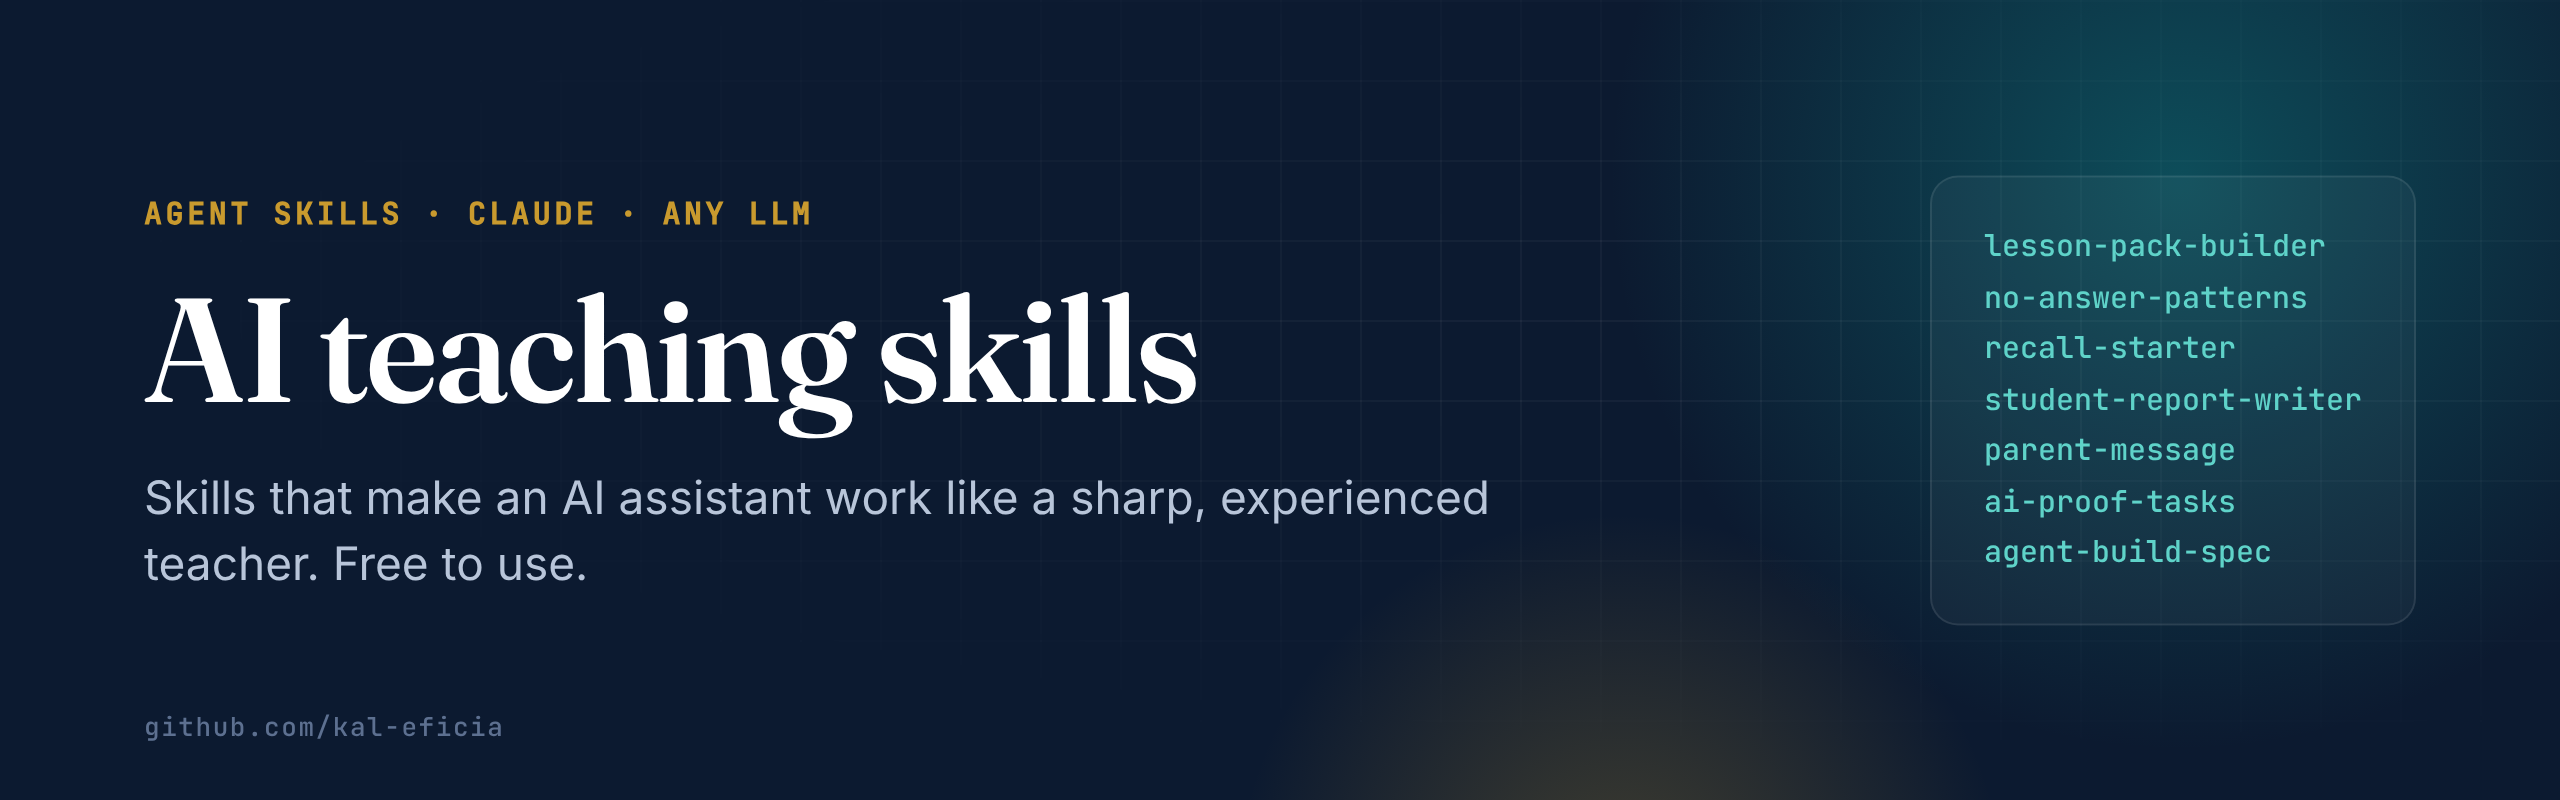
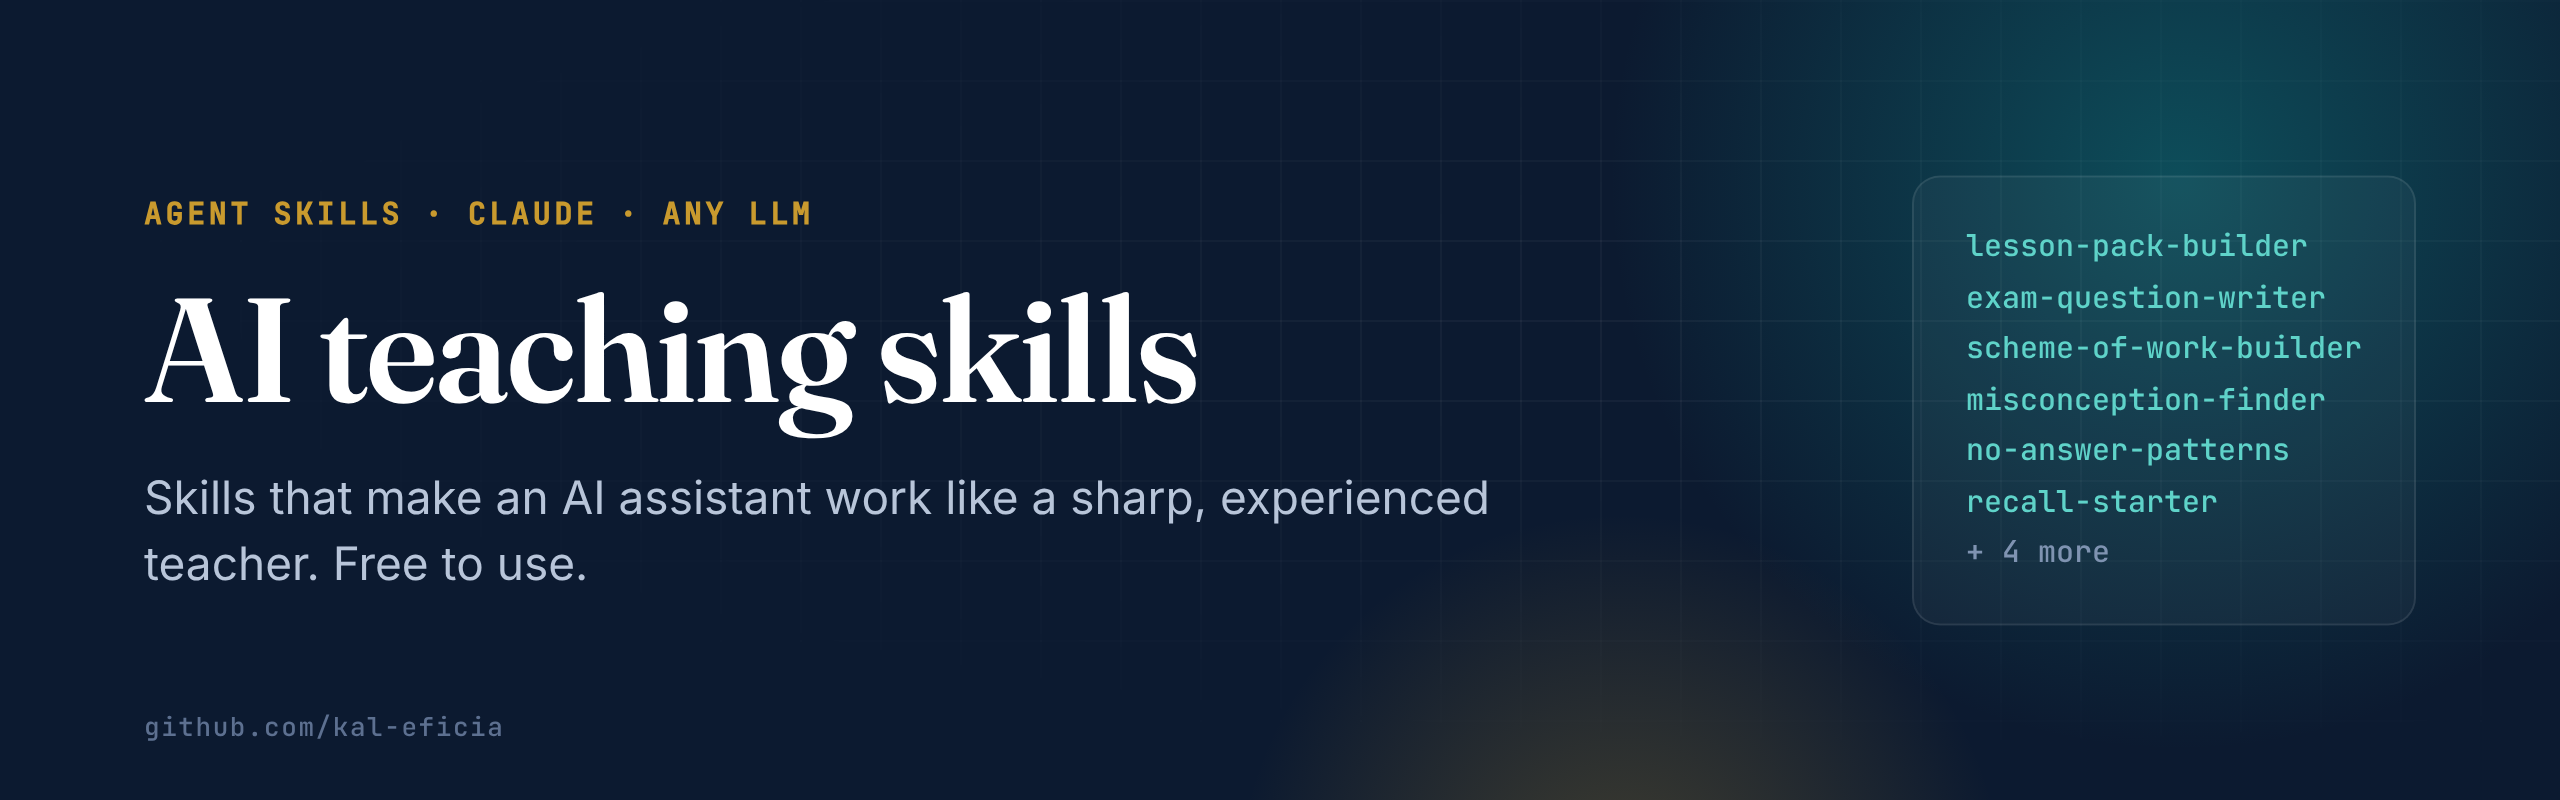
Add exam questions, schemes of work, misconceptions and parents evening skills

Changed region(s): [[0.75, 0.2812, 0.9375, 0.7188]]

diff --git a/skills/exam-question-writer/SKILL.md b/skills/exam-question-writer/SKILL.md
@@ -1,0 +1,55 @@
+---
+name: exam-question-writer
+description: Write original exam-style questions with mark schemes that match a named exam board's command words, mark allocations and assessment objectives (Cambridge IGCSE, GCSE AQA/Edexcel/OCR, A level and others). Use when a teacher asks for exam questions, past-paper style practice, a mock paper, a mark scheme, or "questions like the real exam".
+---
+
+# Exam Question Writer
+
+Students lose marks on questions they understand because they misread what the command word asks for. Practice questions only help if they behave like the real paper.
+
+## Step 1: Pin the target
+
+Confirm: board and specification code, topic (spec reference if possible), tier or paper, and how many questions or marks. If the teacher has past papers, read two or three first and match their style, layout and difficulty curve. Never copy a real past-paper question: write original ones in the same mould.
+
+## Step 2: Use the command words properly
+
+Each command word sets the depth of the answer and the marks. Defaults (check the board's own glossary when you can):
+
+| Command word | Student must | Typical marks |
+|---|---|---|
+| State / Give / Identify / Name | Recall a fact, no explanation | 1 per point |
+| Define | Give the precise meaning | 1-2 |
+| Describe | Say what happens or what something is like, in steps or features | 2-4 |
+| Explain | Give reasons: what happens **and why**, linked with "because / so / therefore" | 2-6 |
+| Compare | Similarities and/or differences, both sides referred to in each point | 2-4 |
+| Calculate | Work out with working shown | 1-4 |
+| Evaluate / Discuss / Justify | Weigh points for and against and reach a supported judgement | 4-8 |
+
+Marks must match demand: a 4-mark "explain" needs four creditable, linked points to exist.
+
+## Step 3: Write each question
+
+- Start with a short context when the board does (a school network, a shop's database, a patient's symptoms).
+- One command word per part. Split multi-part questions into (a), (b), (c) of rising difficulty.
+- Put the marks in brackets at the end of each part: **[3]**.
+- Plain, unambiguous language. No trick wording. No double negatives.
+- For multiple choice: real misconceptions as distractors, and no answer patterns across the set (see `no-answer-patterns`).
+
+## Step 4: Write the mark scheme
+
+For each part:
+- **Marking points**, one per mark, written as an examiner would ("Data is lost when power is removed (1)").
+- **Accept**: other wording that earns the same mark.
+- **Do not accept**: common answers that look close but don't earn the mark, with the reason.
+- For levels-marked questions: level descriptors and an indicative content list.
+- A model answer at full marks.
+
+Write the marking points so they could feed [mark-point-checker](https://github.com/kal-eficia/mark-point-checker) directly if the teacher wants automatic feedback.
+
+## Step 5: Check
+
+- [ ] Every command word matches its marks and its mark scheme
+- [ ] Each mark is independently creditable
+- [ ] Nothing outside the named specification
+- [ ] Difficulty rises through the paper
+- [ ] No answer patterns in MCQs

diff --git a/README.md b/README.md
@@ -1,7 +1,7 @@
 <p align="center"><img src=".github/banner.png" alt="AI teaching skills" width="100%"></p>
 
 <p align="center">
-  <img src="https://img.shields.io/badge/skills-7-0f8b8d?style=flat-square" alt="7 skills">
+  <img src="https://img.shields.io/badge/skills-10-0f8b8d?style=flat-square" alt="10 skills">
   <img src="https://img.shields.io/badge/works%20with-Claude%20%C2%B7%20any%20agent-0c1a30?style=flat-square" alt="Works with Claude and other agents">
   <img src="https://img.shields.io/badge/licence-MIT-c99a2e?style=flat-square" alt="MIT">
 </p>
@@ -20,7 +20,10 @@ These skills fix that. Each one is a short, opinionated playbook, written by a w
 | [**student-report-writer**](skills/student-report-writer/SKILL.md) | Reports that are honest, specific and kind, with different wording for every student |
 | [**parent-message**](skills/parent-message/SKILL.md) | Short, plain-language messages to parents with one clear call to action |
 | [**ai-proof-tasks**](skills/ai-proof-tasks/SKILL.md) | Redesigns homework and coursework so students still learn when AI is available |
-| [**agent-build-spec**](skills/agent-build-spec/SKILL.md) | Turns an app idea into phase-gated prompts for Replit Agent, Claude Code or Cursor, UI first, with a stop gate after every phase |
+| [**exam-question-writer**](skills/exam-question-writer/SKILL.md) | Original exam-style questions and mark schemes that use the board's command words and mark allocations properly |
+| [**scheme-of-work-builder**](skills/scheme-of-work-builder/SKILL.md) | A term or year of lessons, sequenced by dependency, with spaced retrieval, assessment points and a balance of creative and exam work |
+| [**misconception-finder**](skills/misconception-finder/SKILL.md) | Groups wrong answers by the idea behind them and plans the fix, confident-but-wrong first |
+| [**parent-evening-prep**](skills/parent-evening-prep/SKILL.md) | A phone-sized brief per student: one strength, one priority, one home action and who does it |
 
 ## Install
 
@@ -44,6 +47,8 @@ cp -r ai-teaching-skills/skills/* ~/.claude/skills/
 
 > Write end-of-term reports for these six students. Here are my notes on each. (paste notes)
 
+> Here are last week's quiz results. What are they confusing, and what should I reteach first?
+
 ## The principles behind them
 
 - **Recall first.** Lessons open with retrieval from memory, spaced and interleaved.
@@ -58,6 +63,8 @@ cp -r ai-teaching-skills/skills/* ~/.claude/skills/
 - [pattern-guard](https://github.com/kal-eficia/pattern-guard): the answer-pattern checker as a CLI and library
 - [recall-engine](https://github.com/kal-eficia/recall-engine): spaced-retrieval starters from a question bank and attempts log
 - [lesson-page-kit](https://github.com/kal-eficia/lesson-page-kit): the student-page engine the lesson-pack skill can write for
+- [mark-point-checker](https://github.com/kal-eficia/mark-point-checker): marks short answers against the mark schemes the exam-question skill writes
+- [ai-skills-kit](https://github.com/kal-eficia/ai-skills-kit): skills for AI adoption, creators and builders
 
 ## Contributing
 

diff --git a/skills/scheme-of-work-builder/SKILL.md b/skills/scheme-of-work-builder/SKILL.md
@@ -1,0 +1,46 @@
+---
+name: scheme-of-work-builder
+description: Plan a term or year of lessons as a scheme of work: sequenced lessons with objectives, spaced retrieval, assessment points, practical and creative tasks, and the resources each lesson needs. Use when a teacher asks for a scheme of work, a curriculum plan, a term plan, a long-term or medium-term plan, or "what should I teach and when".
+---
+
+# Scheme of Work Builder
+
+A scheme of work is a promise about what students will be able to do by a date. Good ones are sequenced so each lesson builds on the last, revisit earlier content before it fades, and leave room for the lessons that go wrong.
+
+## Inputs
+
+- Subject, specification (board and code) or national curriculum stage
+- Year group, number of classes, lesson length and lessons per week
+- Start and end dates, holidays, and any fixed assessment weeks
+- What students already know (last term's scheme or a baseline)
+- Teaching context: remote or in person, devices available, class sizes
+
+Ask only for what you can't infer. State assumptions at the top of the document.
+
+## Principles
+
+1. **Sequence by dependency.** Teach what later topics need first (binary before data representation, cells before organ systems). Draw the dependency chain before placing lessons.
+2. **Spaced retrieval is built in.** Every lesson opens with a starter that revisits content from 1, 3 and 6+ lessons ago. Name the topics each starter draws from.
+3. **Balance the week.** Mix exam-question lessons with creative or practical lessons (posters, debates, short presentations, builds). Not every lesson is creative; not every lesson is past-paper practice.
+4. **Assessment points are planned, not added.** A short check every 3 to 4 lessons, an end-of-unit assessment, and a six-week review against the baseline.
+5. **Slack is honest.** Leave one flex lesson in every six for catch-up, absences and the lesson that needs reteaching.
+6. **Tell families about practical needs in advance.** If a lesson needs materials or software at home, flag it a week ahead.
+
+## Output: one table per half-term
+
+| Wk | Lesson | Objective (spec ref) | Starter draws from | Main task type | Check | Resources |
+|---|---|---|---|---|---|---|
+
+Then, after the tables:
+- **Assessment calendar** with dates
+- **Key vocabulary** per unit
+- **Common misconceptions** per unit (feed them to the `misconception-finder` skill)
+- **Home heads-up list**: what families need to know about, and when
+
+## Check
+
+- [ ] Every spec point in range is taught at least once and retrieved at least twice
+- [ ] No lesson depends on something taught later
+- [ ] Creative and exam-focused lessons are both present every fortnight
+- [ ] Flex lessons exist
+- [ ] Dates fit the real calendar, including holidays

diff --git a/skills/misconception-finder/SKILL.md b/skills/misconception-finder/SKILL.md
@@ -1,0 +1,41 @@
+---
+name: misconception-finder
+description: Find the misconceptions behind students' wrong answers, group them, and plan how to fix each one, from a set of quiz results, written answers, exit tickets or a class log. Also lists the predictable misconceptions for a topic before teaching it. Use when a teacher shares student answers or results and asks what went wrong, what to reteach, or what students are confusing.
+---
+
+# Misconception Finder
+
+A wrong answer is information. Ten wrong answers that share a cause are a lesson plan.
+
+## Mode A: from student work
+
+1. **Collect** the answers with the question, the correct answer, and (if available) each student's confidence.
+2. **Group wrong answers by cause, not by question.** Look for:
+   - *Confusions between pairs*: RAM/ROM, lossy/lossless, CSS/CSV, mass/weight
+   - *Over-generalised rules*: "bigger file always means better quality"
+   - *Everyday meaning beating technical meaning*: "virus", "memory", "energy"
+   - *Procedure without understanding*: right steps, wrong place
+   - *Reading the question wrong*: describe vs explain, units, "two" means two
+3. **Weigh each group**: how many students, and how many were confident while wrong. Confident and wrong is the priority: it won't fix itself.
+4. **Separate slips from misconceptions.** One student, once, with low confidence is probably a slip. Several students, repeatedly, is a misconception.
+
+## Mode B: before teaching a topic
+
+List the 5 to 8 misconceptions students most often bring to it, each with the tell-tale wrong answer that reveals it. These become hinge-question distractors.
+
+## Output
+
+For each misconception, most urgent first:
+
+- **The wrong idea**, in the student's words
+- **Evidence**: which questions, how many students (names only if the teacher shared them and wants them)
+- **Why it's appealing**: what makes it feel right
+- **The fix**: a counter-example or contrast, a 5-minute reteach plan, and one hinge question to check it's gone (with no answer patterns)
+- **When to revisit**: the next two starters it should appear in
+
+End with a one-line summary for the teacher: the single misconception to fix first, and why.
+
+## Care
+
+- Student names stay out of anything shared beyond the teacher.
+- Don't label students; label ideas.

diff --git a/skills/parent-evening-prep/SKILL.md b/skills/parent-evening-prep/SKILL.md
@@ -1,0 +1,39 @@
+---
+name: parent-evening-prep
+description: Prepare for parents' evening or a parent call: a short, honest brief per student with one strength, one priority, a concrete home action and likely questions, plus a schedule. Use when a teacher or tutor asks to prepare for parents' evening, parent meetings, progress calls or consultations.
+---
+
+# Parent Evening Prep
+
+Five minutes per family goes fast. Parents remember one thing. Make sure it's the right one.
+
+## Inputs
+
+For each student: name, attainment and progress data (grades, scores, recall trends), attendance, homework record, and the teacher's notes. Plus slot length and schedule if known.
+
+Never invent evidence. Where data is missing, say so in the brief.
+
+## The brief, per student (fits on a phone screen)
+
+- **Open with**: one specific strength, with evidence ("scored 9/10 on last week's networks check, up from 4").
+- **The one priority**: the single thing that would move them most, as a skill, not a trait.
+- **What it looks like at home**: one action, with who does it. "She explains one thing from today's lesson to you at dinner" is a parent action. "He does 10 minutes on the revision app" is a student action. Don't assume parents can teach the content.
+- **Numbers to have ready**: current level, target, attendance, homework completion.
+- **Likely questions** and a straight answer to each ("Is she on track for a 7?").
+- **Tone note** if relevant: a family that's worried, a student who's had a hard term.
+
+## Running the meeting
+
+A shape that fits five minutes: welcome and strength (1 min) · the priority with evidence (2 min) · the home action and who does it (1 min) · questions (1 min). End on something true and hopeful.
+
+## Output
+
+1. A schedule table: time, student, one-line focus.
+2. One brief per student, in schedule order.
+3. A follow-up list: anything promised to a family, with a date.
+
+## Care
+
+- Talk about work and habits, never personality.
+- Plain English: no "AO2", "working towards", internal programme names.
+- Briefs about children are private: keep them in the teacher's own files.
